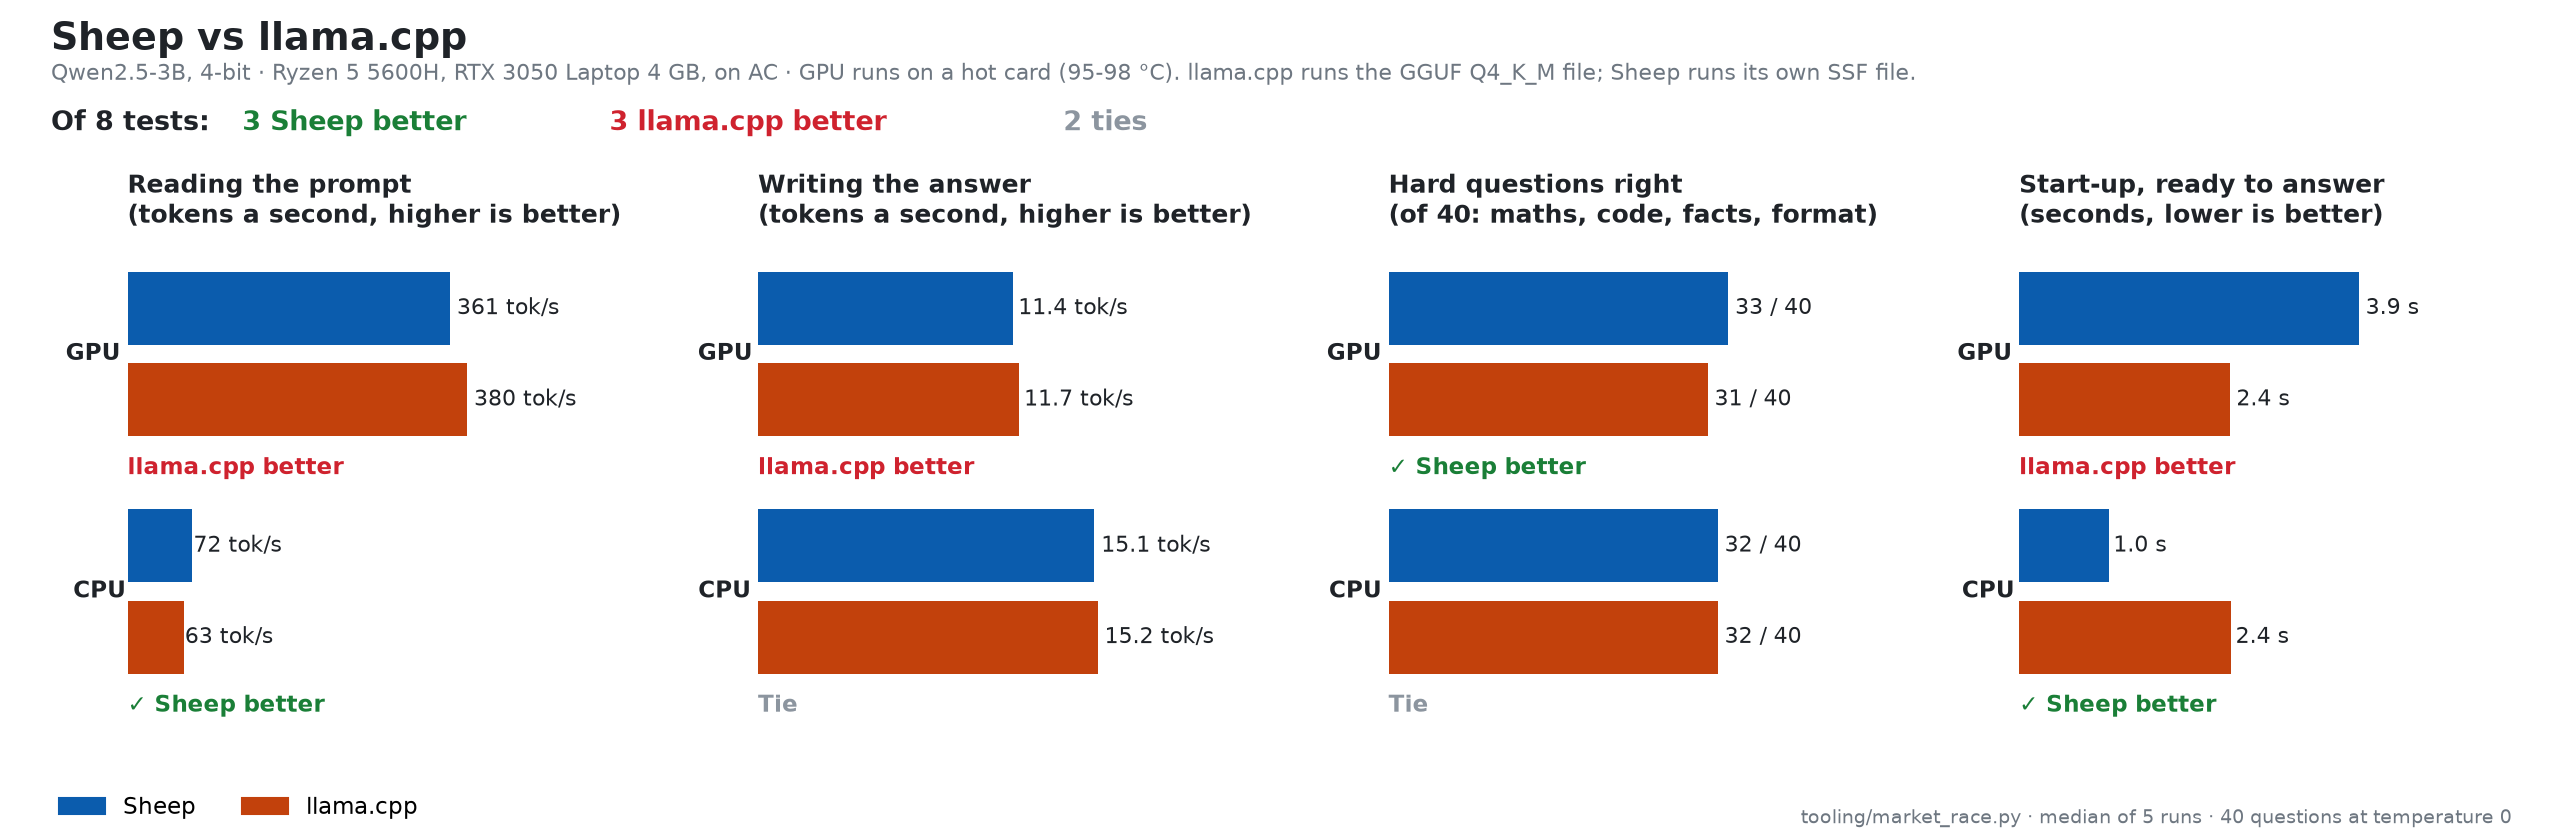
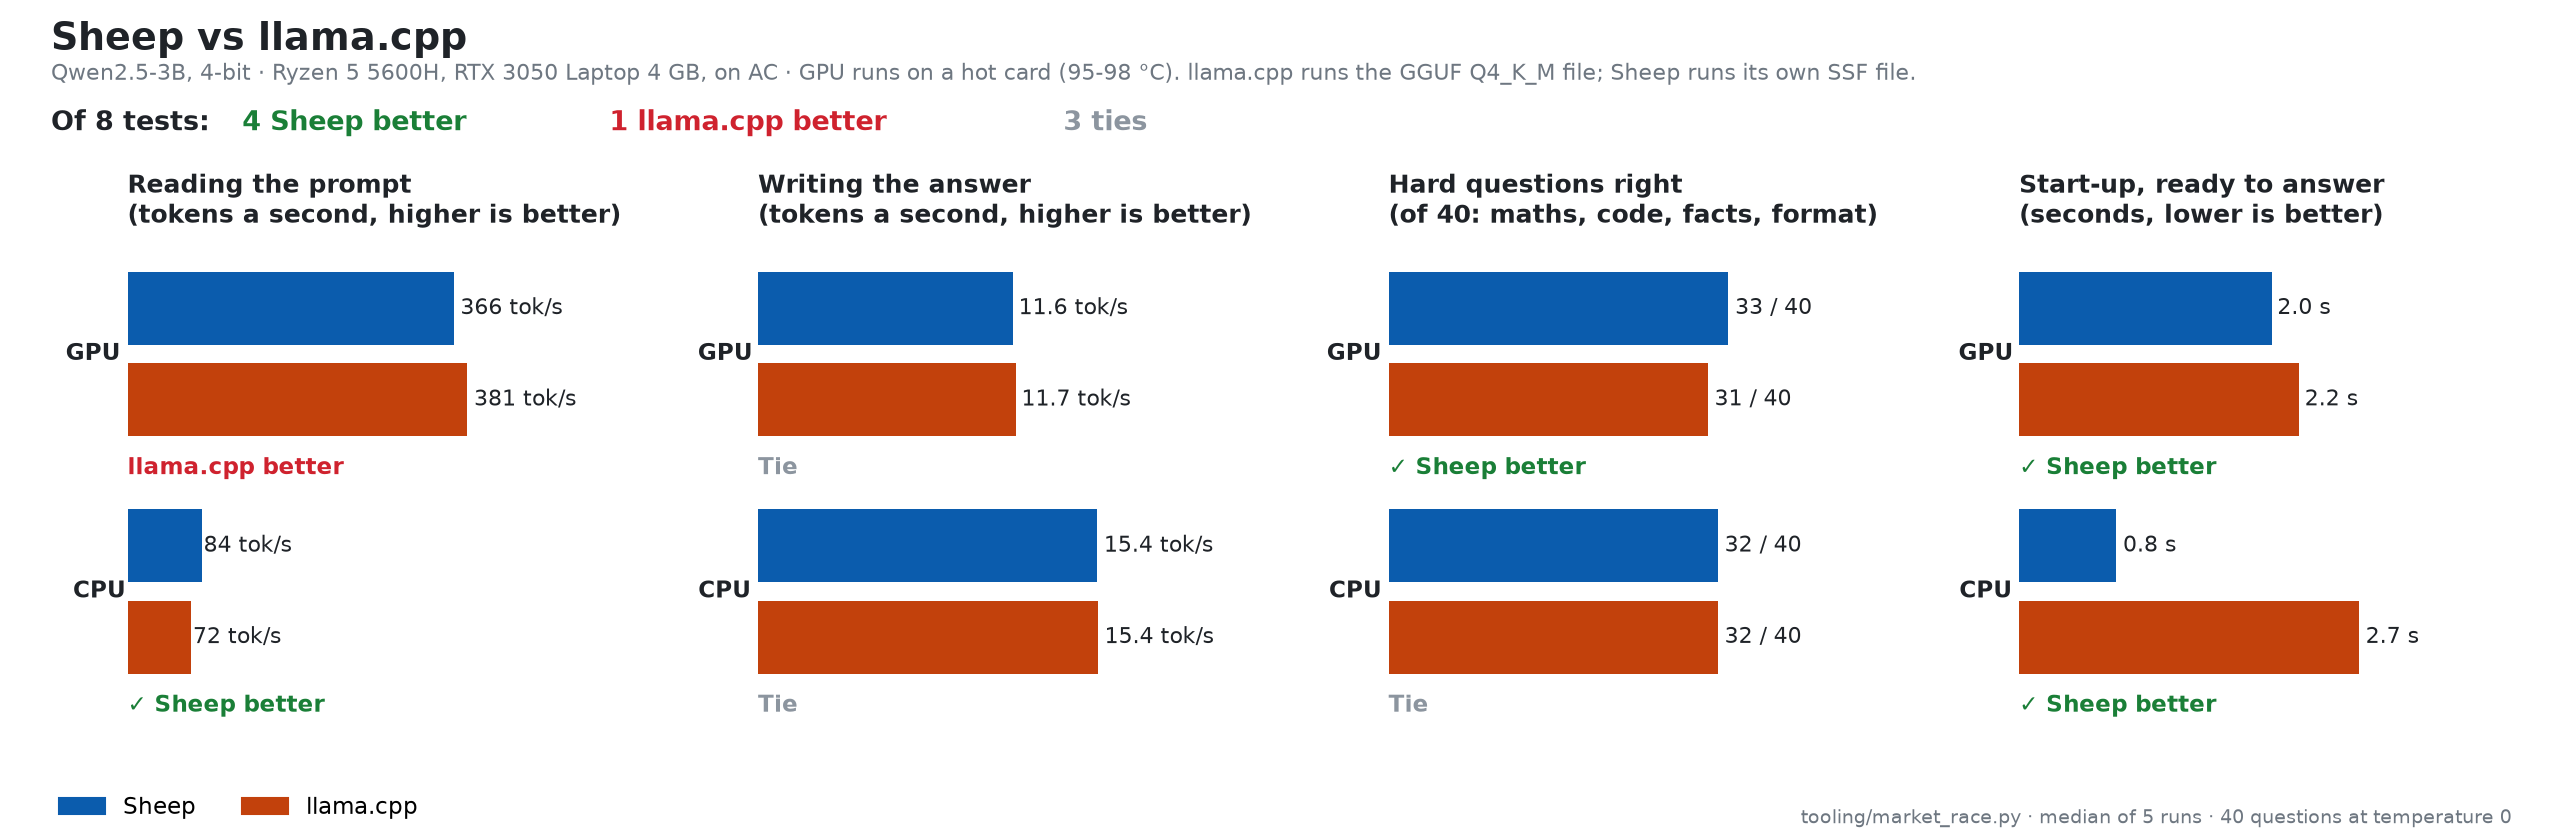
Engine: GPU start-up remembers its prompt check per file, build and settings (3.9 s to 2.0 s). Races: hardware use measured (RAM, card memory from before start, CPU %, card power); night re-race; sixth graph: hardware used

diff --git a/tooling/benchmark_charts.py b/tooling/benchmark_charts.py
@@ -27,9 +27,11 @@ MACHINE = "Qwen2.5-3B, 4-bit · Ryzen 5 5600H, RTX 3050 Laptop 4 GB, on AC · GP
 # tooling/market_race.py (each engine as a server, ~710-token prompt, 128 new tokens, median of 5 runs;
 # 40 hard questions at temperature 0). Sheep's GPU row is the run after the 2026-10-27 prompt-path fix.
 MARKET = {  # engine: {device: (read tok/s, write tok/s, right of 40, start-up s)}
-    "Sheep": {"gpu": (361.0, 11.44, 33, 3.89), "cpu": (72.35, 15.09, 32, 1.03)},
-    "llama.cpp": {"gpu": (380.1, 11.70, 31, 2.41), "cpu": (62.69, 15.24, 32, 2.43)},
-    "Ollama": {"gpu": (383.7, 11.99, 32, 72.0), "cpu": (81.03, 15.70, 33, 6.14)},
+    # speeds and start-up: the 2026-10-27 night re-race, two rows each in mirrored order (A B C C B A),
+    # averaged; Sheep's GPU start-up is the cached prompt check (2.03 s); answers right: the earlier 40-question run
+    "Sheep": {"gpu": (365.5, 11.57, 33, 2.03), "cpu": (83.6, 15.36, 32, 0.78)},
+    "llama.cpp": {"gpu": (380.8, 11.70, 31, 2.25), "cpu": (71.7, 15.39, 32, 2.73)},
+    "Ollama": {"gpu": (383.6, 11.99, 32, 6.36), "cpu": (80.7, 15.21, 33, 6.25)},
 }
 BY_CLASS = {  # right of 10 per class, GPU then CPU
     "Sheep": {"gpu": (10, 8, 9, 6), "cpu": (10, 8, 9, 5)},
@@ -299,8 +301,72 @@ def features(out):
     save(fig, out, "features.png")
 
 
+HW_LOG = Path(__file__).resolve().parent / "hw_race.jsonl"   # tooling/market_race.py rows, copied here
+
+
+def hardware(out):
+    """How much of the machine each engine takes to do the same work: less memory, CPU and power
+    leaves room for a bigger model, other apps, and battery."""
+    import json
+    rows = {}
+    for line in HW_LOG.read_text(encoding="utf-8").splitlines():
+        r = json.loads(line)
+        name = {"sheep": "Sheep", "llamacpp": "llama.cpp", "ollama": "Ollama"}[r["kind"]]
+        rows[(name, r["device"])] = r
+    panels = [
+        ("Memory (RAM) at its peak\n(MB, lower is better)", "peak_ram_mb", "MB", "{:.0f}"),
+        ("Graphics memory at its peak\n(MB, lower is better)", "peak_vram_mb", "MB", "{:.0f}"),
+        ("CPU busy while answering\n(% of the whole CPU, lower is better)", "avg_cpu_pct", "%", "{:.0f}"),
+        ("Graphics card power\n(watts, lower is better)", "avg_gpu_w", "W", "{:.1f}"),
+    ]
+    engines = [("Sheep", SHEEP), ("llama.cpp", LLAMA), ("Ollama", OLLAMA)]
+    fig, axes = plt.subplots(1, len(panels), figsize=(17, 6.0), facecolor=BG)
+    head(fig, "Hardware used for the same work",
+         f"{MACHINE}. Same prompt and answer length for each. Less used = more room for a bigger model or other apps.")
+    wins = []
+    for ax, (t, k, unit, fmt) in zip(axes, panels):
+        top = max(rows[(e, d)].get(k) or 0 for e, _ in engines for d in ("gpu", "cpu")) or 1
+        for i, dev in enumerate(("gpu", "cpu")):
+            vals = [(e, c, rows[(e, dev)].get(k) or 0) for e, c in engines]
+            for j, (e, c, v) in enumerate(vals):
+                y = i * 4.2 + j
+                ax.barh(y, v, height=0.8, color=c)
+                ax.text(v + top * 0.02, y, f"{fmt.format(v)} {unit}", va="center", fontsize=10, color=INK)
+            best = min(v for _, _, v in vals)
+            slack = {"%": 0.5, "MB": 50, "W": 0.3}[unit]     # a few MB or a tenth of a watt is noise
+            lead = [e for e, _, v in vals if v <= best * 1.02 + slack]
+            if len(lead) == len(vals):
+                who, word, c = "tie", "Tie", TIE
+            elif "Sheep" in lead:
+                who, word, c = "Sheep", "✓ Sheep uses least" + (" (tie)" if len(lead) > 1 else ""), WIN
+            else:
+                who, word, c = lead[0], f"{' and '.join(lead)} use{'s' if len(lead) == 1 else ''} least", LOSS
+            wins.append(who)
+            ax.text(0, i * 4.2 + 2.85, word, va="center", fontsize=10.5, color=c, fontweight="bold")
+            ax.text(-top * 0.03, i * 4.2 + 1, dev.upper(), va="center", ha="right", fontsize=11, color=INK,
+                    fontweight="bold")
+        ax.set_xlim(0, top * 1.5)
+        ax.set_ylim(7.6, -0.8)
+        ax.set_yticks([])
+        ax.set_xticks([])
+        clean(ax)
+        ax.set_title(t, loc="left", fontsize=12, color=INK, fontweight="bold")
+    score(fig, [("Sheep uses least", wins.count("Sheep"), WIN),
+                ("another uses less", sum(w not in ("Sheep", "tie") for w in wins), LOSS),
+                ("tie", wins.count("tie"), TIE)], len(wins))
+    fig.legend(handles=[plt.Rectangle((0, 0), 1, 1, color=c) for _, c in engines], labels=[e for e, _ in engines],
+               loc="lower left", ncol=3, frameon=False, bbox_to_anchor=(0.015, 0.0))
+    fig.text(0.985, 0.02, "tooling/market_race.py: memory of the engine's whole process tree; card memory counted "
+             "from before the engine started; CPU and power averaged over the runs", ha="right", fontsize=9,
+             color=MUTED)
+    fig.subplots_adjust(left=0.05, right=0.985, top=0.7, bottom=0.1, wspace=0.3)
+    save(fig, out, "hardware.png")
+
+
 def main(out):
     style()
+    if HW_LOG.exists():
+        hardware(out)
     versus(out, "llama.cpp", LLAMA, "sheep_vs_llamacpp.png")
     versus(out, "Ollama", OLLAMA, "sheep_vs_ollama.png")
     engines(out)

diff --git a/tooling/market_race.py b/tooling/market_race.py
@@ -60,40 +60,61 @@ def prompt(i):
 
 # ------------------------------------------------------------------ measuring from outside
 class Watch:
-    """Peak RSS of a process tree and peak VRAM in use, sampled while a run goes."""
+    """Peak RSS of a process tree and peak VRAM in use, sampled while a run goes; and how hard the
+    hardware worked for it: the tree's CPU use (% of the whole CPU), the card's use and its power.
+    vram0 is the card's use before the engine started (taken by race()), so the model's weights count."""
 
-    def __init__(self, pid=None):
+    def __init__(self, pid=None, vram0=None):
         self.pid, self.rss, self.vram, self.temp, self.go = pid, 0, 0, 0, True
-        self.vram0 = gpu()[0]
+        self.vram0 = gpu()[0] if vram0 is None else vram0
+        self.cpu, self.util, self.watts = [], [], []
         self.t = threading.Thread(target=self.loop, daemon=True)
         self.t.start()
 
     def loop(self):
         import psutil
+        procs = {}
+        ncpu = psutil.cpu_count() or 1
         while self.go:
             try:
                 p = psutil.Process(self.pid or os.getpid())
-                self.rss = max(self.rss, sum(x.memory_info().rss for x in [p, *p.children(recursive=True)]))
+                tree = [p, *p.children(recursive=True)]
+                self.rss = max(self.rss, sum(x.memory_info().rss for x in tree))
+                busy = 0.0
+                for x in tree:          # the first reading of a process is 0 by psutil's design
+                    procs.setdefault(x.pid, x)
+                    busy += procs[x.pid].cpu_percent(None)
+                self.cpu.append(busy / ncpu)
             except Exception:
                 pass
-            used, temp = gpu()
+            used, temp, util, watts = gpu_full()
             self.vram, self.temp = max(self.vram, used - self.vram0), max(self.temp, temp)
+            self.util.append(util)
+            self.watts.append(watts)
             time.sleep(0.25)
 
     def stop(self):
         self.go = False
         self.t.join(2)
-        return {"peak_ram_mb": round(self.rss / 2**20), "peak_vram_mb": max(0, round(self.vram)), "peak_gpu_c": self.temp}
+        avg = lambda xs: round(sum(xs[1:]) / max(1, len(xs) - 1), 1)
+        return {"peak_ram_mb": round(self.rss / 2**20), "peak_vram_mb": max(0, round(self.vram)), "peak_gpu_c": self.temp,
+                "avg_cpu_pct": avg(self.cpu), "avg_gpu_util": avg(self.util), "avg_gpu_w": avg(self.watts)}
+
+
+def gpu_full():
+    try:
+        r = subprocess.run(["nvidia-smi", "--query-gpu=memory.used,temperature.gpu,utilization.gpu,power.draw",
+                            "--format=csv,noheader,nounits"], capture_output=True, text=True, timeout=10)
+        used, temp, util, watts = [x.strip() for x in r.stdout.strip().splitlines()[0].split(",")]
+        num = lambda v: float(v) if v.replace(".", "", 1).isdigit() else 0.0
+        return num(used), int(num(temp)), num(util), num(watts)
+    except Exception:
+        return 0.0, 0, 0.0, 0.0
 
 
 def gpu():
-    try:
-        r = subprocess.run(["nvidia-smi", "--query-gpu=memory.used,temperature.gpu", "--format=csv,noheader,nounits"],
-                           capture_output=True, text=True, timeout=10)
-        used, temp = r.stdout.strip().splitlines()[0].split(",")
-        return float(used), int(temp)
-    except Exception:
-        return 0.0, 0
+    used, temp, _, _ = gpu_full()
+    return used, temp
 
 
 def post(url, body, timeout=1800):
@@ -160,7 +181,8 @@ class Sheep(Http):
         exe = ROOT / "sml" / "sml-server.exe"
         dev = {"cpu": "cpu", "gpu": "gpu"}[self.device]
         self.proc = subprocess.Popen([str(exe), SSF, "--port", str(self.port), "--ctx", str(CTX), "--slots", "1",
-                                      "--threads", str(THREADS), "--device", dev, "--orchestrator", "off"],
+                                      "--threads", os.environ.get("SHEEP_THREADS", str(THREADS)), "--device", dev,
+                                      "--orchestrator", os.environ.get("SHEEP_ORCH", "off")],
                                      cwd=str(exe.parent), stdout=subprocess.DEVNULL, stderr=subprocess.DEVNULL)
         wait_http(self.url + "/health", self.proc)
 
@@ -369,6 +391,7 @@ def race(spec, runs, port, quality):
     kind, device = (spec.split(":") + ["cpu"])[:2]
     eng = ENGINES[kind](device, port)
     row = {"engine": eng.name, "kind": kind, "device": device, "time": time.strftime("%Y-%m-%d %H:%M:%S")}
+    vram0 = gpu()[0]
     t0 = time.perf_counter()
     try:
         eng.start()
@@ -379,7 +402,7 @@ def race(spec, runs, port, quality):
     row["format"] = eng.fmt
     f = Path(eng.file)
     row["size_mb"] = round((sum(x.stat().st_size for x in f.rglob("*") if x.is_file()) if f.is_dir() else f.stat().st_size) / 2**20)
-    w = Watch(eng.pid())
+    w = Watch(eng.pid(), vram0)
     try:
         r, _, _ = eng.chat([{"role": "user", "content": "What is the capital of France? Answer in one word."}], 16)
         row["sanity"] = (r["choices"][0]["message"].get("content") or "")[:60]

diff --git a/sml/sml-server.c b/sml/sml-server.c
@@ -32,6 +32,7 @@
 #include <ctype.h>
 #include <math.h>
 #include <time.h>
+#include <sys/stat.h>
 
 #if defined(_WIN32)
 #include <winsock2.h>
@@ -1061,6 +1062,52 @@ static int prompt_path_sound(const int * want, const int * got, int n) {
     return distinct >= 5;
 }
 
+// The prompt check's verdict is the same on every start of the same file, engine build and layer
+// split, and it cost ~1.5 s of every GPU start (3.9 s against llama.cpp's 2.4, 2026-10-27). So it is
+// kept beside the model, keyed by all three; anything different checks again.
+static void prompt_key(char * key, int n, const char * path, int layers, int of) {
+    long long size = 0, mtime = 0;
+    FILE * f = fopen(path, "rb");
+    if (f) {
+#ifdef _WIN32
+        _fseeki64(f, 0, SEEK_END); size = _ftelli64(f);
+        struct __stat64 st; if (_stat64(path, &st) == 0) mtime = (long long) st.st_mtime;
+#else
+        fseeko(f, 0, SEEK_END); size = (long long) ftello(f);
+#endif
+        fclose(f);
+    }
+    // the kernel settings an engine tune may set change which prompt path is sound, so they are in the key
+    extern char ** environ;
+    unsigned h = 2166136261u;
+    for (char ** e = environ; e && *e; e++)
+        if (!strncmp(*e, "SML_", 4) && strncmp(*e, "SML_PROMPT_RECHECK", 18))
+            for (const char * c = *e; *c; c++) h = (h ^ (unsigned char) *c) * 16777619u;
+    snprintf(key, n, "%s %s|%lld|%lld|%d/%d|%08x", __DATE__, __TIME__, size, mtime, layers, of, h);
+}
+
+static int prompt_cached(const char * path, const char * key) {
+    char p[1100], line[300];
+    snprintf(p, sizeof p, "%s.prompt", path);
+    FILE * f = fopen(p, "r");
+    if (!f) return -1;
+    int lvl = -1;
+    if (fgets(line, sizeof line, f)) {
+        char * bar = strrchr(line, ' ');
+        if (bar && !strncmp(line, key, (size_t) (bar - line)) && strlen(key) == (size_t) (bar - line))
+            lvl = atoi(bar + 1);
+    }
+    fclose(f);
+    return lvl >= 0 && lvl <= 2 ? lvl : -1;
+}
+
+static void prompt_remember(const char * path, const char * key, int lvl) {
+    char p[1100];
+    snprintf(p, sizeof p, "%s.prompt", path);
+    FILE * f = fopen(p, "w");
+    if (f) { fprintf(f, "%s %d\n", key, lvl); fclose(f); }
+}
+
 static void pace_rest(int ms) {
 #if defined(_WIN32)
     Sleep((DWORD) ms);
@@ -1600,8 +1647,12 @@ int main(int argc, char ** argv) {
             snprintf(probe, sizeof probe, "%s\n", q);
         int pid[256];
         const int np = sml_encode(&v, probe, pid, 256);
-        int want[12], got[12], lvl = 2;
-        if (np > 4) {
+        int want[12], got[12], lvl = 2, np_fail = 0;
+        char pkey[300];
+        prompt_key(pkey, sizeof pkey, path, g_gpu_layers, g_gpu_of);
+        const int known = getenv("SML_PROMPT_RECHECK") ? -1 : prompt_cached(path, pkey);
+        if (known >= 0) lvl = known;
+        else if (np > 4) {
             for (int mode = 0; mode <= 2; mode++) {
                 const int want_lvl = mode == 0 ? 0 : (mode == 1 ? 2 : 1);
                 sml_gpu_prompt_mode(want_lvl);
@@ -1613,7 +1664,7 @@ int main(int argc, char ** argv) {
                     out[k] = sml_sample_greedy(lg, (int) m.hdr->n_vocab);
                     lg = sml_gpu_step(out[k], np + k);
                 }
-                if (!lg) { lvl = 0; break; }
+                if (!lg) { lvl = 0; np_fail = 1; break; }
                 if (mode == 0) continue;
                 // Word for word over 12 tokens was too strict: rounding in the batched sums can flip
                 // one late greedy choice, and the 3B then read every prompt a token at a time on the
@@ -1623,6 +1674,7 @@ int main(int argc, char ** argv) {
                 if (!memcmp(want, got, sizeof want) || prompt_path_sound(want, got, 12)) { lvl = want_lvl; break; }
                 lvl = 0;
             }
+            if (!np_fail) prompt_remember(path, pkey, lvl);
         }
         sml_gpu_prompt_mode(lvl);
         if (lvl < 2)
